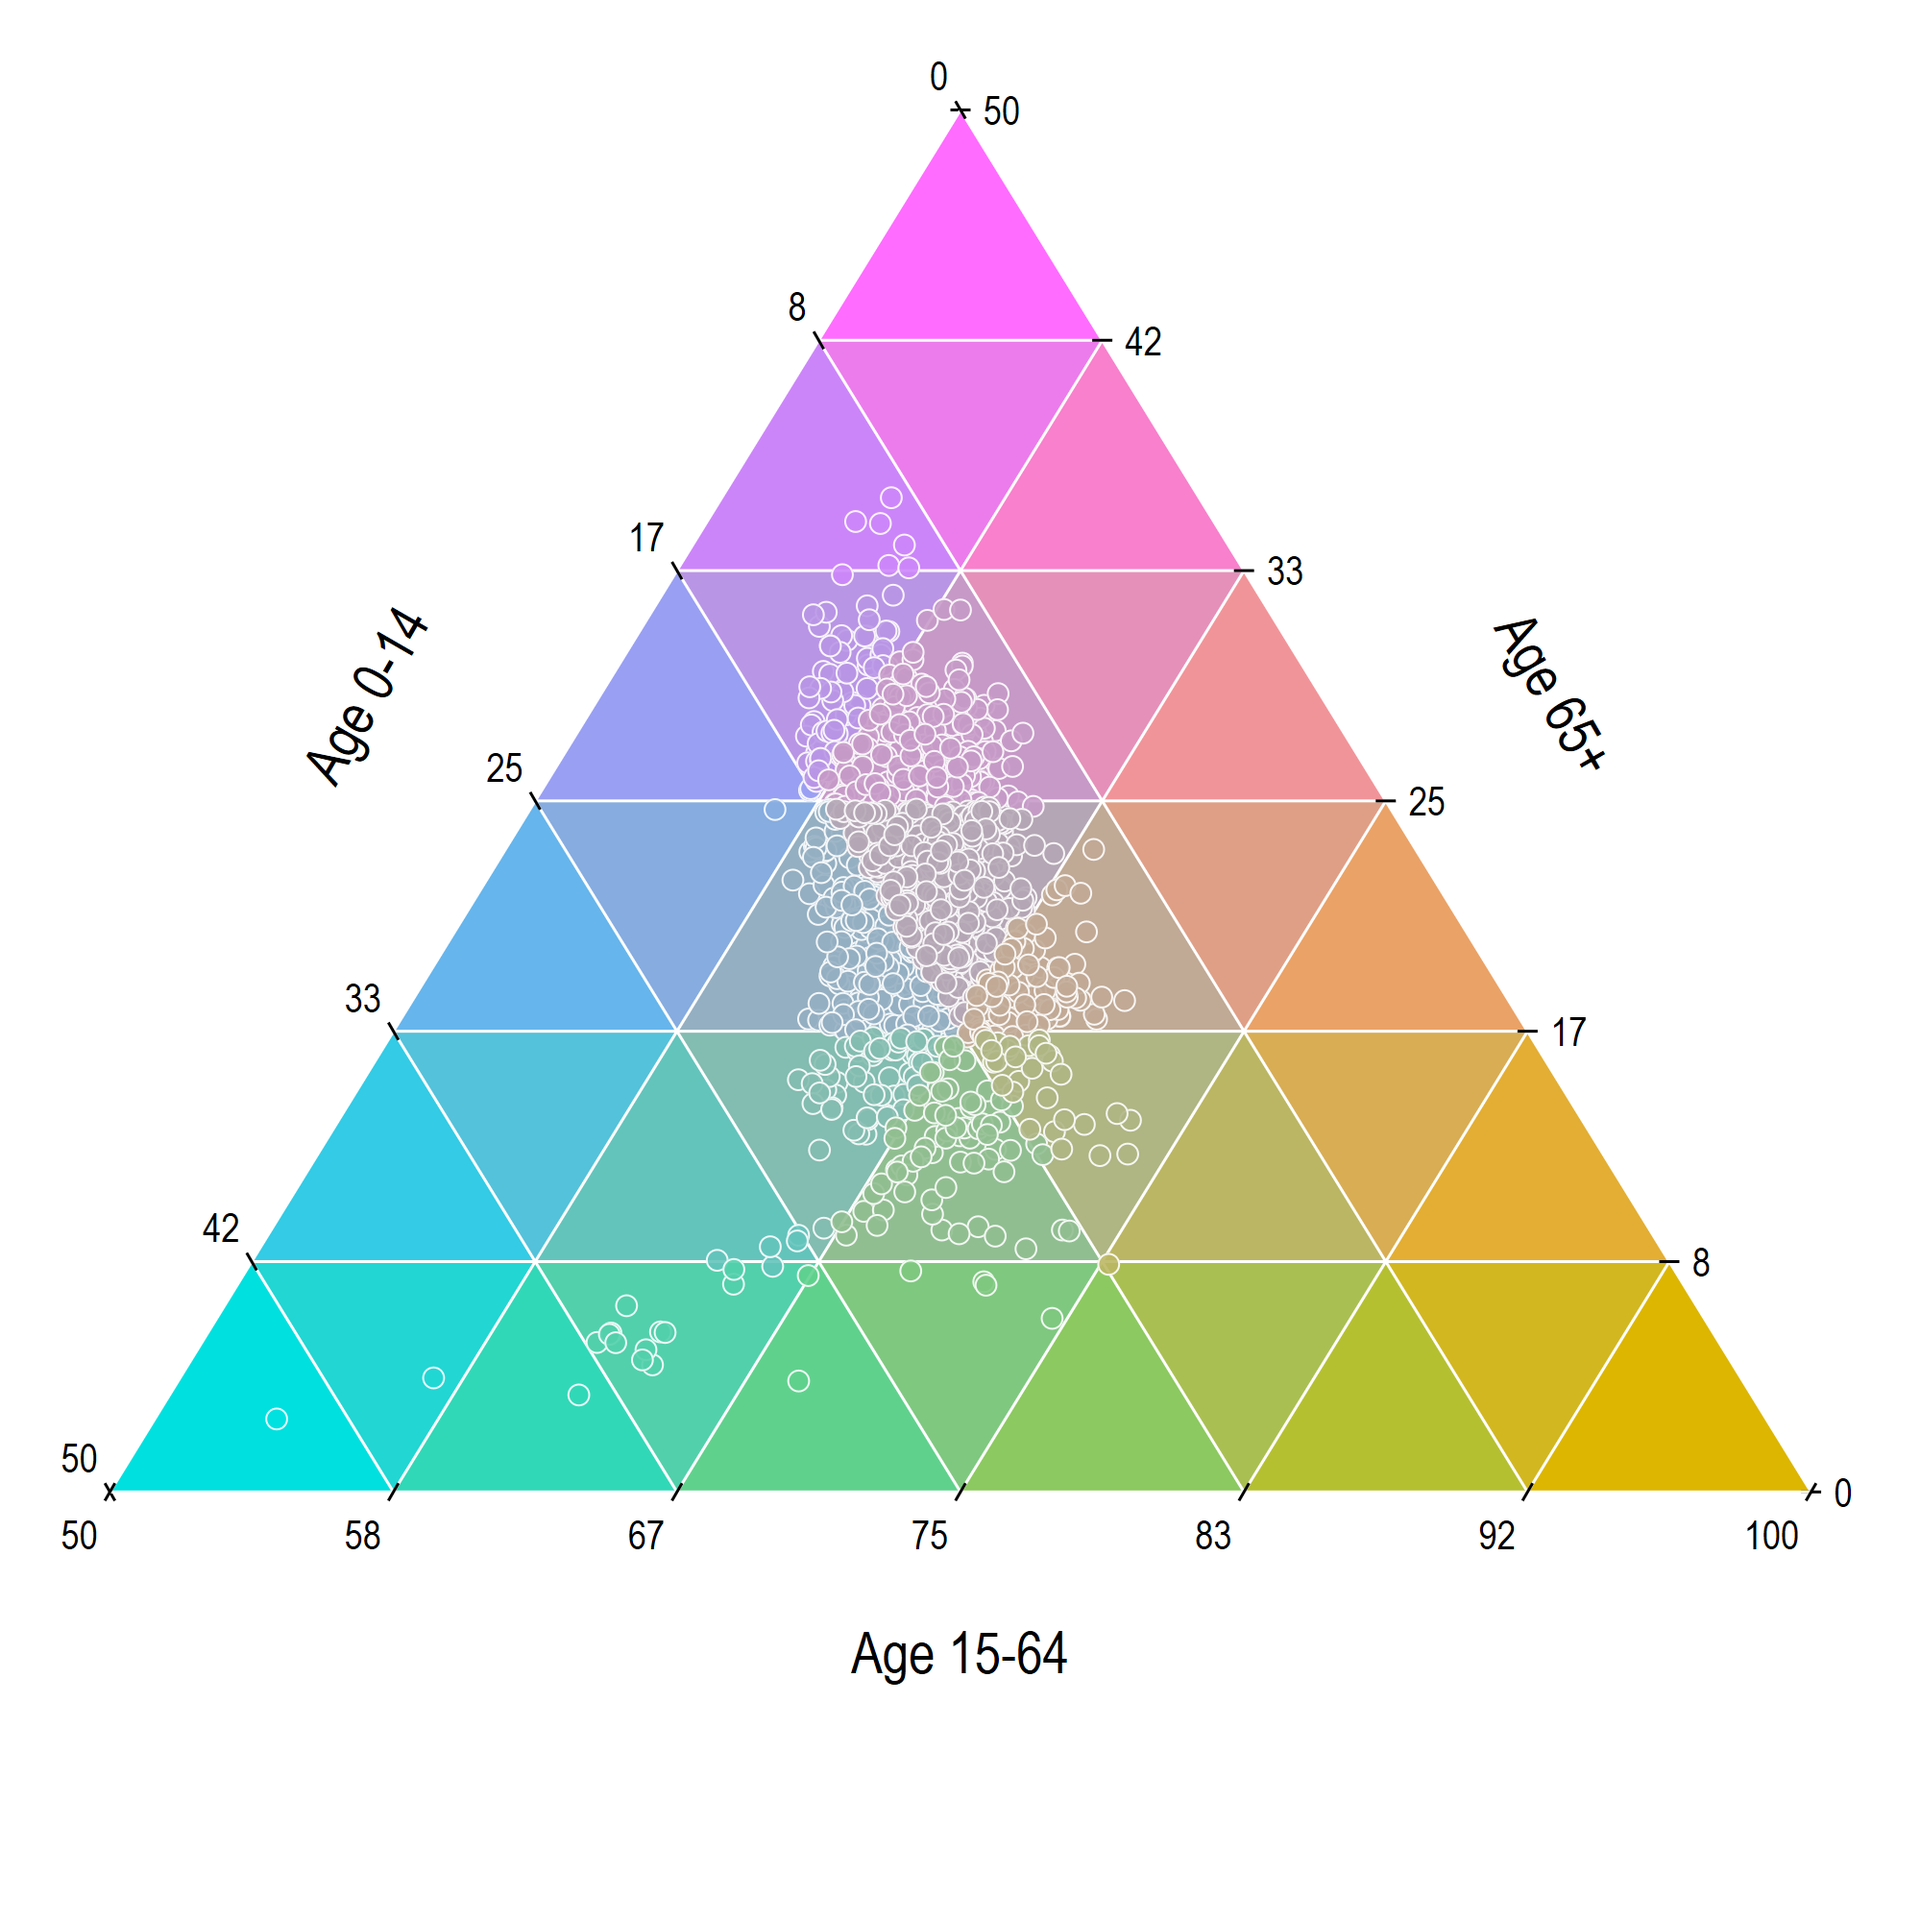
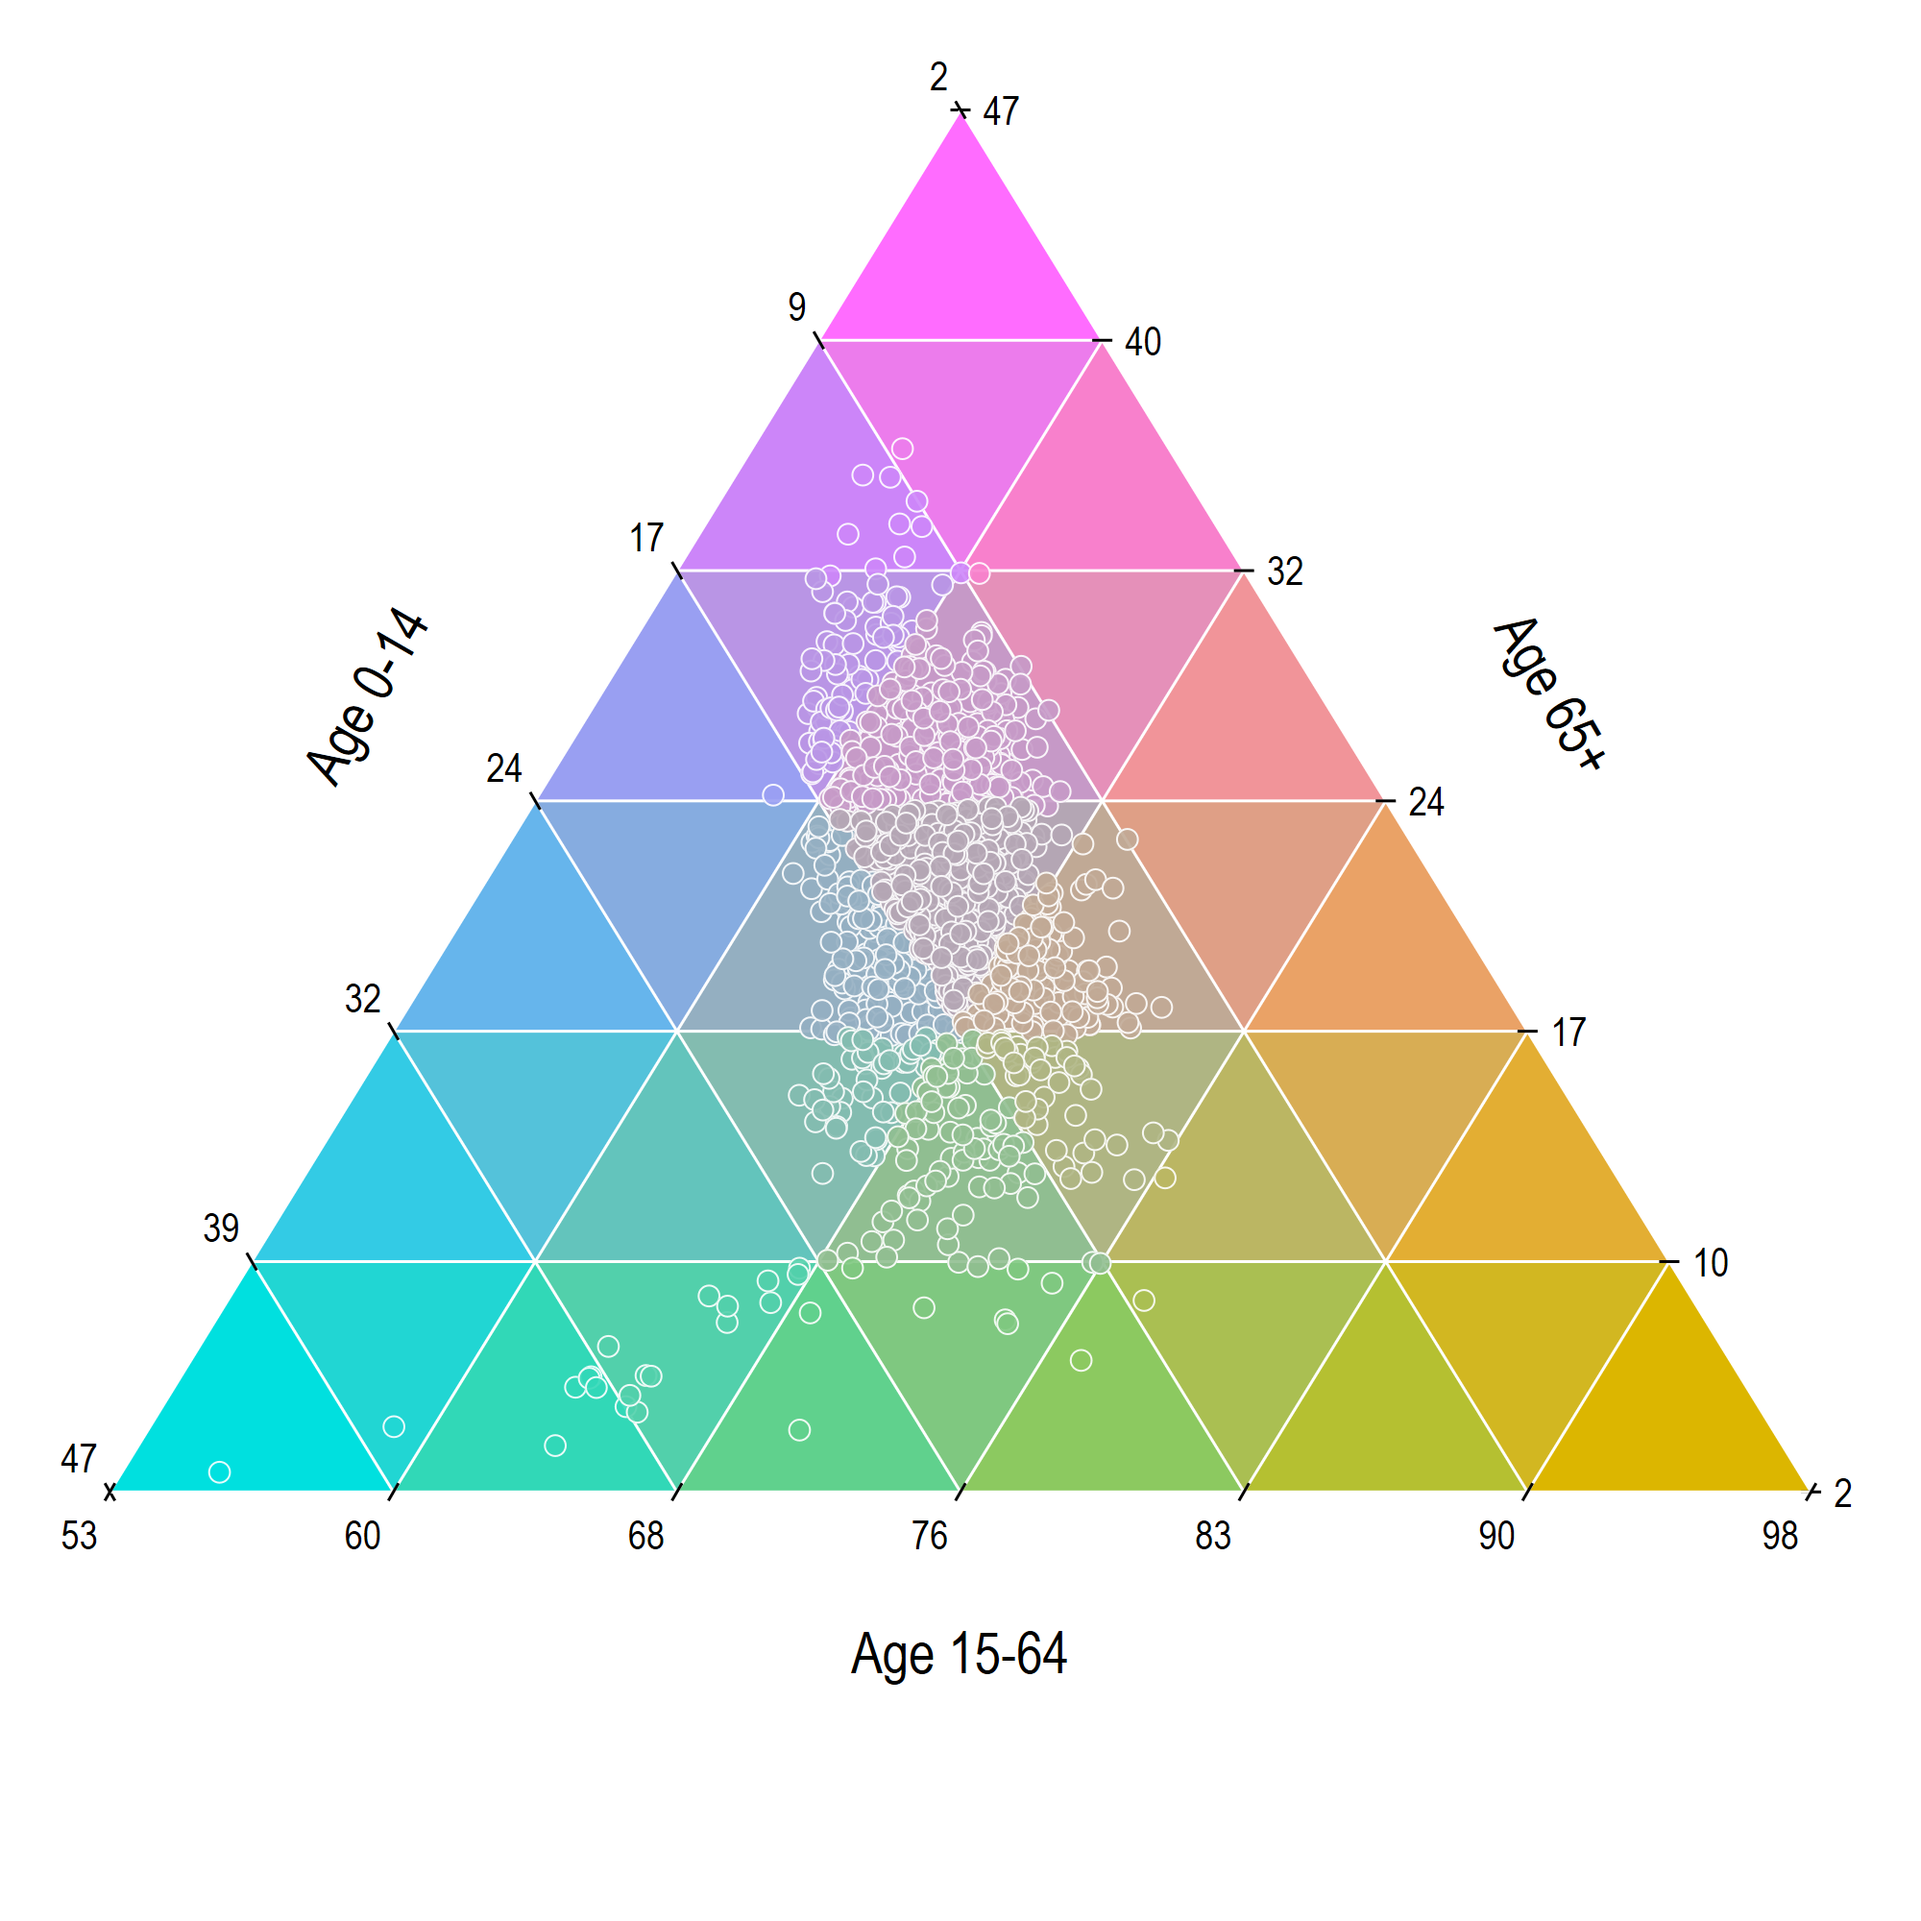
v1.1 fixes/better zoom

diff --git a/README.md b/README.md
@@ -319,6 +319,7 @@ Please open an [issue](https://github.com/asjadnaqvi/stata-ternary/issues) to re
 **v1.1 (12 Sep 2024)**
 - Added `norm()` option which can be used to normalize the data to 1 (`norm(1)`) or 100 (`norm(100)`).
 - Added marker label options: `mlabel()`, `mlabcolor()`, `mlabposition()`, `mlabsize()`.
+- Better zoom option.
 - Minor code cleanups.
 
 **v1.0 (28 Aug 2024)**
